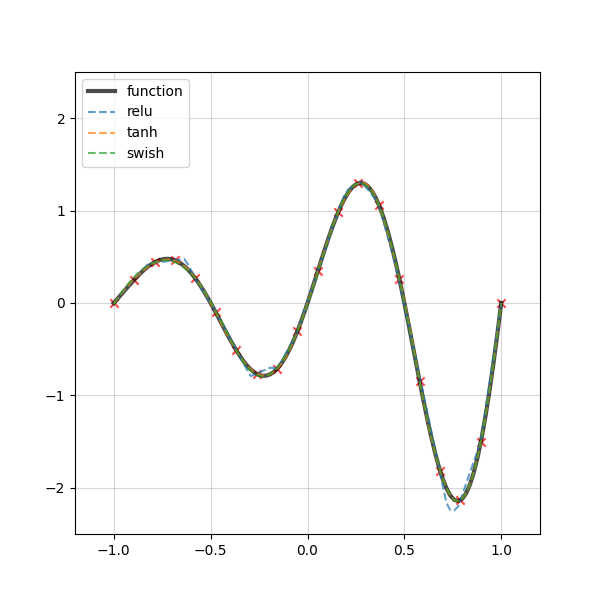
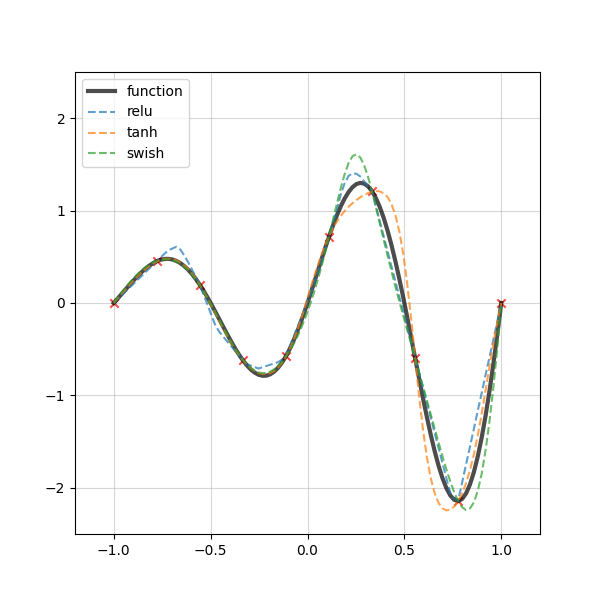
add code

diff --git a/00_tf2/main.py b/00_tf2/main.py
@@ -17,7 +17,7 @@ def main():
     config_gpu(gpu_flg)
 
     # problem setup
-    p_id = 2
+    p_id = 0
     xmin = -1.
     xmax =  1.
     nx   = 100
@@ -26,6 +26,8 @@ def main():
     f_in   = 1
     f_out  = 1
     f_hid  = 2 ** 4
+    depth  = 3
+    f_hid  = 5
     depth  = 3
     w_init = "Glorot"
     b_init = "zeros"
@@ -37,7 +39,7 @@ def main():
 
     # prepare data
     x = np.linspace(xmin, xmax, nx)
-    x_train = np.linspace(xmin, xmax, int(nx / 10)).reshape(-1, 1)
+    x_train = np.linspace(xmin, xmax, int(nx / 5)).reshape(-1, 1)
     x_train = tf.convert_to_tensor(x_train, dtype=d_type)
     x_infer = np.linspace(xmin, xmax, nx).reshape(-1, 1)
     x_infer = tf.convert_to_tensor(x_infer, dtype=d_type)
